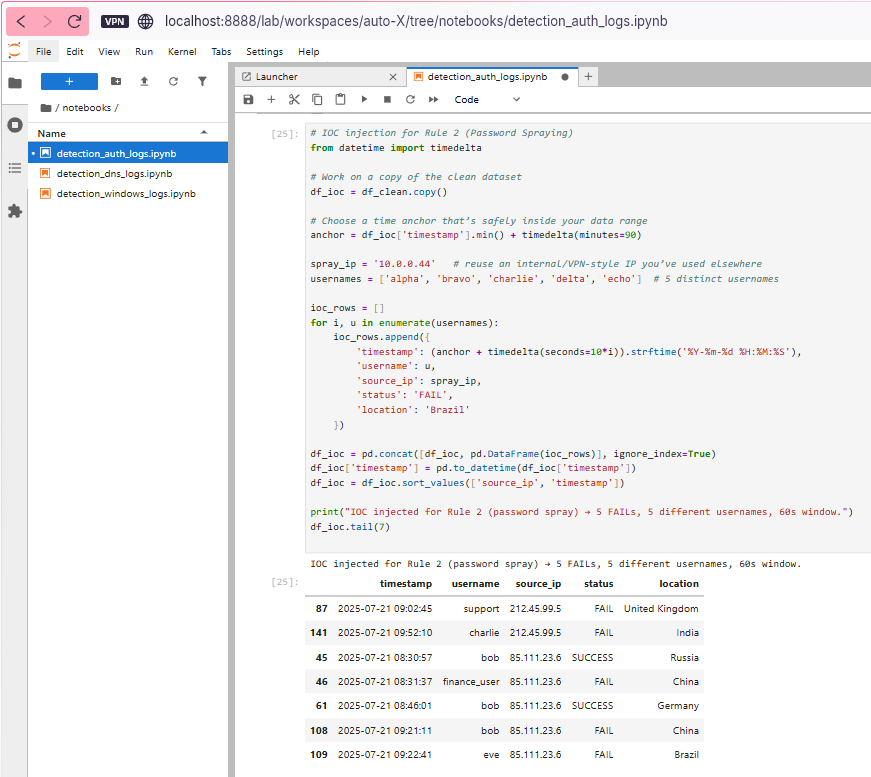
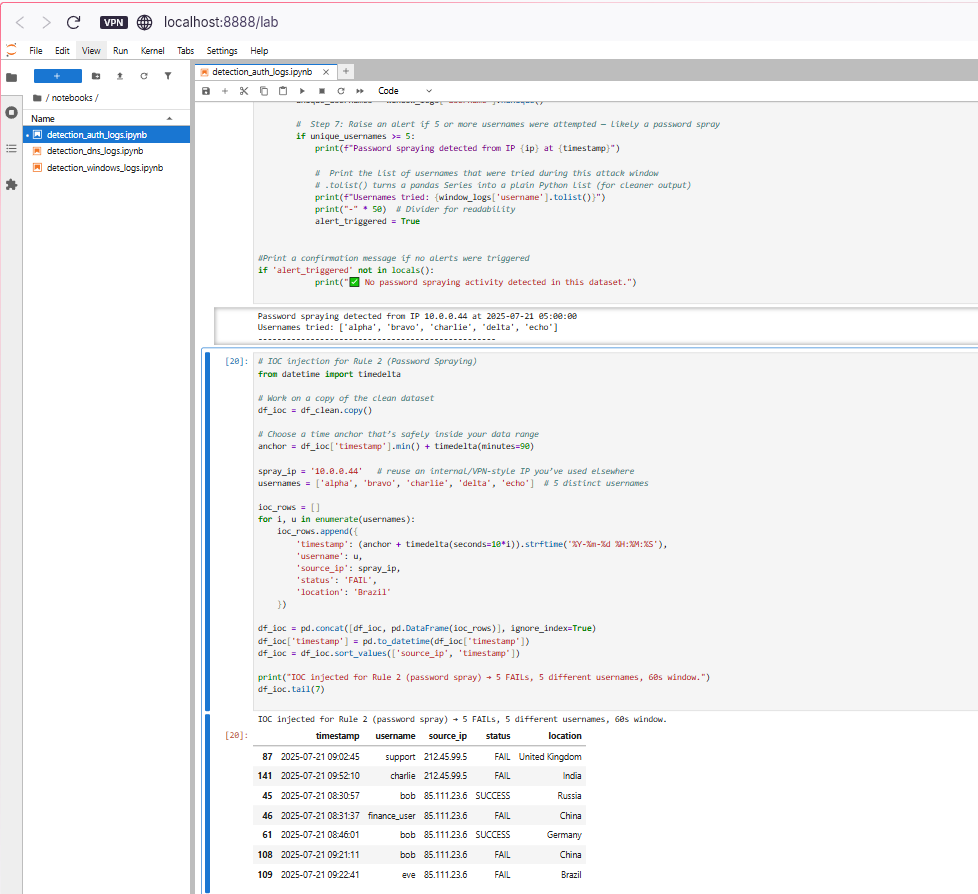
Update: Enhanced Authentication Log Detections section with Rule 2 IOC screenshot and full README rewrite

Changed region(s): [[0.0, 0.0, 1.0, 1.0], [0.558, 0.4324, 0.899, 0.4633], [0.744, 0.6486, 0.961, 0.6795]]

diff --git a/README.md b/README.md
@@ -274,20 +274,22 @@ Multiple failed login attempts from the same IP in a short window often indicate
 <summary>See how this rule works, why it matters, and what it looks like in action</summary>
 
 **Analyst Note:**  
-This was the first authentication detection I developed. I simulated vertical brute-force behaviour, one IP repeatedly failing to log in, and tuned it to trigger only when five or more failures happened within 60 seconds. I tested different time windows before settling on this threshold, which felt aggressive enough for early detection without overwhelming the analyst. This rule taught me how to group login attempts and control alert sensitivity using timestamp logic.
+This was the first authentication detection I developed. I simulated vertical brute-force behaviour (one IP repeatedly failing to log in) and tuned it to trigger only when five or more failures happened within 60 seconds. I tested different time windows before settling on this threshold, which felt aggressive enough for early detection without overwhelming the analyst.  
+This rule taught me how to group login attempts and control alert sensitivity using timestamp logic.
 
 **Operational Use Case:**  
-Designed for early detection of brute-force login attempts before credentials are compromised. Particularly useful for monitoring public-facing services, VPN gateways, and admin portals.  
+Designed for early detection of brute-force login attempts before credentials are compromised. Particularly useful for monitoring public-facing services, VPN gateways, and admin portals.
 
 **Test Data Notes:**  
-Test data shows the rule correctly did not fire on clean logs. A synthetic IOC was injected to demonstrate detection.  
+- Clean logs: **No alert triggered**.  
+- IOC injected: **Alert fired**, confirming correct detection.
 
 **Framework Reference:**  
 - **MITRE ATT&CK T1110.001** – Password Guessing  
 - **NIST CSF DE.AE-3**, **CIS Control 16.11** – Detect excessive failed authentication attempts
 
 **Logic Summary:**
-- Filter logs with status `'FAIL'`  
+- Filter logs with status `'FAIL'`
 - Group by source IP  
 - Sort by time and alert if five or more failures occur within 60 seconds
 
@@ -306,7 +308,6 @@ _Output (Synthetic IOC Injected – Detection Triggered)_
 </details>
 </details>
 
-
 ---
 
 ### Rule 2 – Password Spraying Detection (Horizontal Attack)  
@@ -316,77 +317,89 @@ When attackers try many usernames with one password from a single IP, they often
 <summary>See how this rule works, why it matters, and what it looks like in action</summary>
 
 **Analyst Note:**  
-Unlike vertical brute-force attacks, password spraying takes a broader approach. I shifted my perspective from volume to variety—how many **different** usernames an IP tries in a short burst. I used a 60‑second sliding window per IP and flagged attempts where ≥5 distinct usernames were targeted. I validated both failure and success paths with synthetic test data.
+Unlike vertical brute-force attacks, password spraying takes a broader approach. I shifted my perspective from **volume** to **variety**—how many **different** usernames an IP tries in a short burst.  
+I used a 60-second sliding window per IP and flagged attempts where ≥5 distinct usernames were targeted.  
+I validated both failure and success paths with synthetic test data.
+
+**Operational Use Case:**  
+Effective for detecting slow-and-low password spraying attacks that bypass account lockout policies. Works well for large enterprise Active Directory environments, SaaS logins, and VPN authentication endpoints.
 
 **Framework Reference:**  
 - **MITRE ATT&CK T1110.003** – Password Spraying  
 - **CIS Control 16.12** – Detect excessive username attempts from a single source
 
 **Logic Summary:**
-- Group login attempts by `source_ip`
-- For each attempt, look ahead 60 seconds (sliding window)
-- Count **unique** usernames in that window
+- Group login attempts by `source_ip`  
+- For each attempt, look ahead 60 seconds (sliding window)  
+- Count **unique** usernames in that window  
 - Alert if the count ≥ 5
 
 **Test Outcome:**
--  Clean dataset: **No alert** (rule did not fire on normal traffic)
--  IOC injected: **Alert triggered** for 5 usernames in 60 seconds
+- Clean dataset: **No alert** (rule did not fire on normal traffic)  
+- IOC injected: **Alert triggered** for 5 usernames in 60 seconds
 
 <details>
 <summary>View Authentication Rule 2 Screenshots</summary>
 
 _Logic (with clean run)_  
-![Logic](screenshots/jupyter/auth/auth_rule2_passwordspray_logic.png)
+![Logic](screenshots/jupyter/auth/auth_rule2_passwordspray_logic.png)  
 
 _Clean dataset output_  
-![Clean Output](screenshots/jupyter/auth/auth_rule2_passwordspray_output_clean.png)
+![Clean Output](screenshots/jupyter/auth/auth_rule2_passwordspray_output.png)  
 
 _Synthetic IOC output (alert)_  
-![IOC Output](screenshots/jupyter/auth/auth_rule2_passwordspray_output_ioc.png)
+![IOC Output](screenshots/jupyter/auth/auth_rule2_passwordspray_output_ioc.png)  
 
 </details>
 </details>
 
 ---
 
-### Rule 3 – Success After Failures (Potential Compromise)  
-An attacker who guesses the right credentials after multiple failures often goes unnoticed. This rule surfaces that risky pattern by correlating successful logins with recent failed attempts.
+### Rule 3 – Success After Multiple Failures (Suspicious Login Pattern)  
+A successful login immediately following multiple failures can indicate a brute-force or password guessing attack that has just succeeded.
 
 <details>
 <summary>See how this rule works, why it matters, and what it looks like in action</summary>
 
 **Analyst Note:**  
-This rule models one of the most dangerous scenarios — a successful login that follows multiple failed attempts from the same IP. I wrote logic to correlate login events over a 10-minute period, linking a success with three or more earlier failures. It taught me how to model sequence-based detections and why context matters. This type of detection often gets missed unless a SOC has correlation logic in place.
-
-For validation, I ran the rule on both clean and synthetic test data. Test data shows the rule correctly did not fire on clean logs. Synthetic IOC data was then injected to demonstrate that the detection triggers as intended.
+This rule looks for a “fail → fail → fail → success” sequence within 10 minutes from the same IP.  
+It’s designed to detect situations where attackers eventually guess the correct password, gain access, and potentially escalate privileges.  
+I simulated this by creating multiple failed attempts followed by a successful login in the test dataset.
 
 **Operational Use Case:**  
-In a real SOC, this detection is critical for spotting compromised accounts before an attacker can escalate privileges or move laterally. While failed logins alone may be dismissed as user error, linking them with a later success is a strong indicator of credential compromise. This rule would typically feed into an alert with high severity, prompting immediate account lockout and incident response.
+Critical for post-authentication monitoring. Detecting this pattern helps analysts quickly respond to compromised accounts, even if the initial attack was missed.
 
 **Framework Reference:**  
-- **MITRE ATT&CK T1078.004** – Valid Accounts: Cloud Accounts  
-- **NIST SP 800-61 Step 2.4**, **CIS Control 16.13** – Detect successful authentication after failed attempts
+- **MITRE ATT&CK T1078** – Valid Accounts  
+- **NIST CSF DE.AE-5** – Detect successful login anomalies after failures  
+- **CIS Control 16.14** – Detect successful logins following failed attempts
 
 **Logic Summary:**
-- Identify successful login events  
-- Check for three or more failures from the same IP within the past 10 minutes  
-- Flag those sessions for deeper review
+- Identify IPs with at least one successful login  
+- Look backwards to find failed logins from the same IP within 10 minutes  
+- Trigger alert if ≥3 failures occurred before the success
+
+**Test Outcome:**
+- Clean dataset: **No alert triggered**  
+- IOC injected: **Alert fired** showing attacker IP, username, fail count, and timestamps
 
 <details>
 <summary>View Authentication Rule 3 Screenshots</summary>
 
-_Clean Dataset Logic & Output_  
+_Logic (Original Detection)_  
 ![Authentication Rule 3 Logic](screenshots/jupyter/auth/auth_rule3_success_after_fail_logic.png)  
+
+_Output (Clean Logs – No Detection)_  
 ![Authentication Rule 3 Output](screenshots/jupyter/auth/auth_rule3_success_after_fail_output.png)  
 
-_Synthetic IOC Test Output_  
-![Authentication Rule 3 IOC Output](screenshots/jupyter/auth/auth_rule3_success_after_fail_output_ioc.png)
+_Output (Synthetic IOC Injected – Detection Triggered)_  
+![Authentication Rule 3 IOC Output](screenshots/jupyter/auth/auth_rule3_success_after_fail_output_ioc.png)  
 
 </details>
 </details>
 
-
 </details>
+
 
 
 ---
